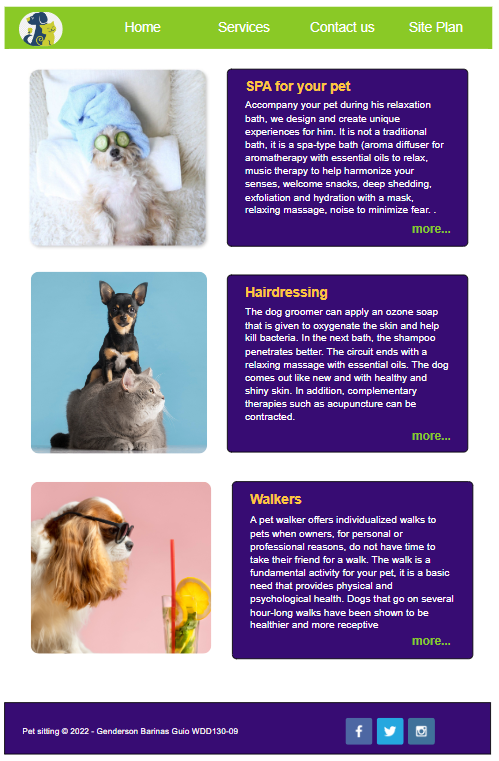
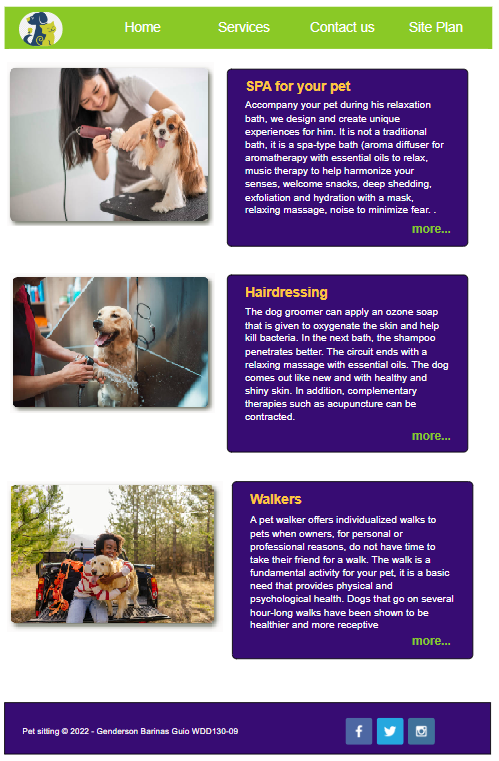
week 12

Changed region(s): [[0.0, 0.0907, 0.4509, 0.6045], [0.0, 0.6347, 0.4509, 0.8765]]

diff --git a/petsitting/index.html b/petsitting/index.html
@@ -34,17 +34,17 @@
             <!-- Full-width images with number and caption text -->
             <div class="mySlides fade">
             <div class="numbertext">1 / 3</div>
-            <img src="images/dogs.jpg">
+            <img src="images/dogs.jpg" alt="dogs">
             </div>
         
             <div class="mySlides fade">
             <div class="numbertext">2 / 3</div>
-            <img src="images/dog_glasses.jpg">
+            <img src="images/dog_glasses.jpg" alt="dog glass" >
             </div>
         
             <div class="mySlides fade">
             <div class="numbertext">3 / 3</div>
-            <img src="images/test1.jpg">
+            <img src="images/girldog.jpg" alt="girl dog">
             </div>
         
             <!-- Next and previous buttons -->
